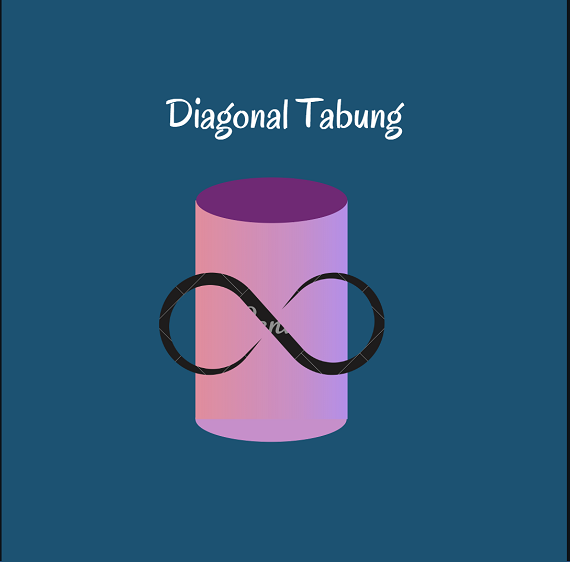
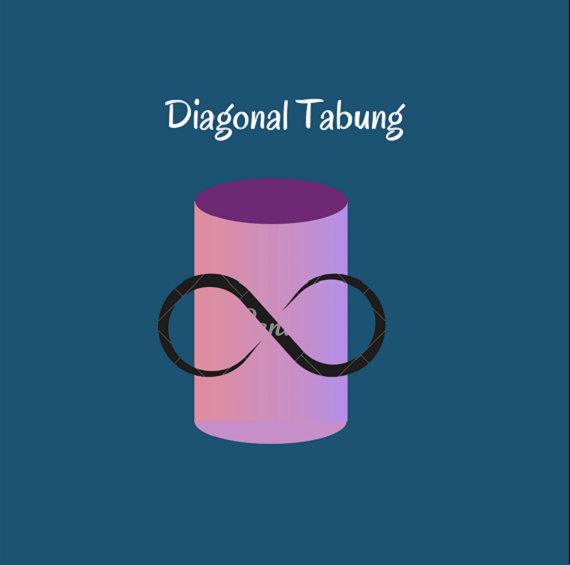
tambahan

diff --git a/src/bangunRuang/limasLatihanSoal1.java b/src/bangunRuang/limasLatihanSoal1.java
@@ -40,6 +40,7 @@ public class limasLatihanSoal1 extends javax.swing.JPanel implements interfaceBa
         jLabel3 = new javax.swing.JLabel();
         jLabel1 = new javax.swing.JLabel();
 
+        setBackground(new java.awt.Color(24, 64, 105));
         setLayout(null);
 
         jLabel4.setFont(new java.awt.Font("Dialog", 1, 24)); // NOI18N
@@ -83,17 +84,17 @@ public class limasLatihanSoal1 extends javax.swing.JPanel implements interfaceBa
             }
         });
         add(jButton1);
-        jButton1.setBounds(90, 250, 51, 23);
+        jButton1.setBounds(90, 250, 52, 32);
 
         jLabel6.setForeground(new java.awt.Color(255, 0, 0));
         jLabel6.setText("18 cm");
         add(jLabel6);
-        jLabel6.setBounds(740, 170, 41, 14);
+        jLabel6.setBounds(740, 170, 41, 16);
 
         jLabel7.setForeground(new java.awt.Color(255, 0, 0));
         jLabel7.setText("10 cm");
         add(jLabel7);
-        jLabel7.setBounds(720, 270, 41, 14);
+        jLabel7.setBounds(720, 270, 41, 16);
 
         jLabel3.setIcon(new javax.swing.ImageIcon(getClass().getResource("/gambar/Limas/soal gambar lim3.png"))); // NOI18N
         add(jLabel3);
@@ -101,7 +102,7 @@ public class limasLatihanSoal1 extends javax.swing.JPanel implements interfaceBa
 
         jLabel1.setIcon(new javax.swing.ImageIcon(getClass().getResource("/gambar/Limas/soal.png"))); // NOI18N
         add(jLabel1);
-        jLabel1.setBounds(0, 0, 1070, 320);
+        jLabel1.setBounds(0, 0, 1070, 330);
     }// </editor-fold>//GEN-END:initComponents
 
     private void jTextField2ActionPerformed(java.awt.event.ActionEvent evt) {//GEN-FIRST:event_jTextField2ActionPerformed

diff --git a/src/ui/app/pbo/TampilanUtama.java b/src/ui/app/pbo/TampilanUtama.java
@@ -20,9 +20,9 @@ public class TampilanUtama extends javax.swing.JFrame {
         jLabel5 = new javax.swing.JLabel();
         jLabel3 = new javax.swing.JLabel();
         jPanel1 = new javax.swing.JPanel();
-        jPanel2 = new javax.swing.JPanel();
         jPanel3 = new javax.swing.JPanel();
         jLabel6 = new javax.swing.JLabel();
+        jPanel2 = new javax.swing.JPanel();
         jLabel2 = new javax.swing.JLabel();
 
         setDefaultCloseOperation(javax.swing.WindowConstants.EXIT_ON_CLOSE);
@@ -54,10 +54,10 @@ public class TampilanUtama extends javax.swing.JFrame {
         jLabel5.setBounds(190, 370, 350, 350);
         getContentPane().add(jLabel3);
         jLabel3.setBounds(0, 230, 60, 0);
+
+        jPanel1.setBackground(new java.awt.Color(51, 51, 51));
         getContentPane().add(jPanel1);
         jPanel1.setBounds(0, 160, 1310, 60);
-        getContentPane().add(jPanel2);
-        jPanel2.setBounds(1220, 0, 30, 290);
 
         jPanel3.setBackground(new java.awt.Color(0, 153, 153));
         jPanel3.addMouseListener(new java.awt.event.MouseAdapter() {
@@ -93,6 +93,10 @@ public class TampilanUtama extends javax.swing.JFrame {
 
         getContentPane().add(jPanel3);
         jPanel3.setBounds(0, 0, 1310, 50);
+
+        jPanel2.setBackground(new java.awt.Color(51, 51, 51));
+        getContentPane().add(jPanel2);
+        jPanel2.setBounds(1220, 0, 30, 290);
 
         jLabel2.setIcon(new javax.swing.ImageIcon(getClass().getResource("/gambar/abstract-blue-geometric-shapes-background-vector.jpg"))); // NOI18N
         getContentPane().add(jLabel2);

diff --git a/src/bangunRuang/tabungDiagonalGambar.java b/src/bangunRuang/tabungDiagonalGambar.java
@@ -29,11 +29,12 @@ public class tabungDiagonalGambar extends javax.swing.JPanel {
 
         jLabel1 = new javax.swing.JLabel();
 
+        setBackground(new java.awt.Color(8, 80, 116));
         setLayout(null);
 
         jLabel1.setIcon(new javax.swing.ImageIcon(getClass().getResource("/gambar/Tabung/diaggam.png"))); // NOI18N
         add(jLabel1);
-        jLabel1.setBounds(0, 0, 590, 400);
+        jLabel1.setBounds(0, 0, 560, 400);
     }// </editor-fold>//GEN-END:initComponents
 
 

diff --git a/src/bangunRuang/prismaVolumeGambar.java b/src/bangunRuang/prismaVolumeGambar.java
@@ -34,7 +34,7 @@ public class prismaVolumeGambar extends javax.swing.JPanel {
 
         jLabel1.setIcon(new javax.swing.ImageIcon(getClass().getResource("/gambar/Prisma/! (16).png"))); // NOI18N
         add(jLabel1);
-        jLabel1.setBounds(0, 0, 590, 480);
+        jLabel1.setBounds(210, 0, 590, 480);
     }// </editor-fold>//GEN-END:initComponents
 
 
